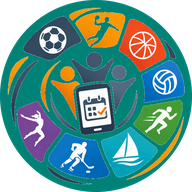
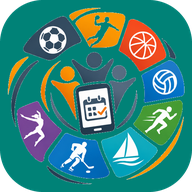
Portail prof 1.29.0 : catégorie AS-UNSS, icône Mes Apps EPS détourée
Claude-Session: https://claude.ai/code/session_01DWMzvDjuQqdn6i5FnQMur8

diff --git a/index.html b/index.html
@@ -1,7 +1,7 @@
 <!DOCTYPE html><html lang="fr"><head><meta charset="utf-8">
 <meta name="viewport" content="width=device-width,initial-scale=1,viewport-fit=cover">
 <title>Mes Apps EPS</title><link rel="manifest" href="manifest.webmanifest"><meta name="theme-color" content="#14151a">
-<link rel="icon" href="icons/icon-192.png"><link rel="apple-touch-icon" href="icons/icon-192.png">
+<link rel="icon" href="icons/icon-192.png"><link rel="apple-touch-icon" href="icons/icon-maskable-192.png">
 <style>
 :root{--bg:#0a1428;--tx:#eef3ff;--mut:rgba(238,243,255,.62);--glass:rgba(255,255,255,.07);--bd:rgba(255,255,255,.15);--c1:#ff8a1f;--c2:#2f9bff;--g1:rgba(255,138,31,.20);--g2:rgba(47,155,255,.22);--onc:#fff;--c3:#ffd27a;--nav:linear-gradient(135deg,#2f9bff,#0a4fd0);--ok:#6ff0a0;--ko:#ff8f8f}
 *{box-sizing:border-box;-webkit-tap-highlight-color:transparent}[hidden]{display:none!important}
@@ -308,7 +308,7 @@ const tc=a=>/^#[0-9a-f]{3,8}\s*,\s*#[0-9a-f]{3,8}$/i.test(a.couleur||'')?` style
 function tile(a,base){const ic=a.icon?new URL(a.icon,base).href:'';
  return `<a class="tile ${a.url?'':'off'}${a.vedette?' vedette':''}"${tc(a)} href="${esc(a.url)}" target="_blank" rel="noopener" title="${esc(a.desc||'')}"><span class="ic">${ic?`<img src="${esc(ic)}" alt="" width=76 height=76 onerror="this.replaceWith(document.createTextNode('${esc(a.emoji||'🧩')}'))">`:esc(a.emoji||'🧩')}</span>${a.vedette?'<span class="badge">✨ Créez votre appli</span>':''}<b>${esc(a.nom)}</b>${a.desc?`<small>${esc(a.desc)}</small>`:''}${a.auteur?`<i class="au">par ${esc(a.auteur)}</i>`:''}</a>`}
 let CM;const communaute=()=>CM||(CM=fetch('communaute.json').then(r=>{if(!r.ok)throw 0;return r.json()}).then(L=>(Array.isArray(L)?L:[]).filter(a=>a&&a.nom&&/^https:\/\//.test(a.url||'')).map(a=>({...a,_c:1}))).catch(()=>[]));
-const CATS=[['Outils','⏱ Outils de séance'],['Performances','📏 Performances'],['Réalisations','🤸 Réalisations'],['Projets','🎯 Projets'],['Evaluations','📝 Évaluations et tests'],['Statistiques','📊 Statistiques'],['Gestion','🗂 Gestion']];
+const CATS=[['Outils','⏱ Outils de séance'],['Performances','📏 Performances'],['Réalisations','🤸 Réalisations'],['Projets','🎯 Projets'],['Evaluations','📝 Évaluations et tests'],['Statistiques','📊 Statistiques'],['Gestion','🗂 Gestion'],['AS-UNSS','🏅 AS – UNSS']];
 const catKey=c=>{const k=(c||'').normalize('NFD').replace(/[̀-ͯ]/g,'').toLowerCase();if(k==='tests'||k==='evaluations'||k==='evaluation')return'Evaluations';const f=CATS.find(([n])=>n.normalize('NFD').replace(/[̀-ͯ]/g,'').toLowerCase()===k);return f?f[0]:'Autres'};
 /* Tuiles regroupées par catégorie : appli « vedette » en tête, sections dans l'ordre de CATS, tuiles inactives à la fin */
 function sections(el,T,tf,vide){const on=T.filter(a=>a.url),off=T.filter(a=>!a.url),ved=on.filter(a=>a.vedette),reste=on.filter(a=>!a.vedette);

diff --git a/version.js b/version.js
@@ -1,1 +1,1 @@
-const APP_VERSION="1.28.1"; // ← seul endroit à modifier pour changer la version
+const APP_VERSION="1.29.0"; // ← seul endroit à modifier pour changer la version
